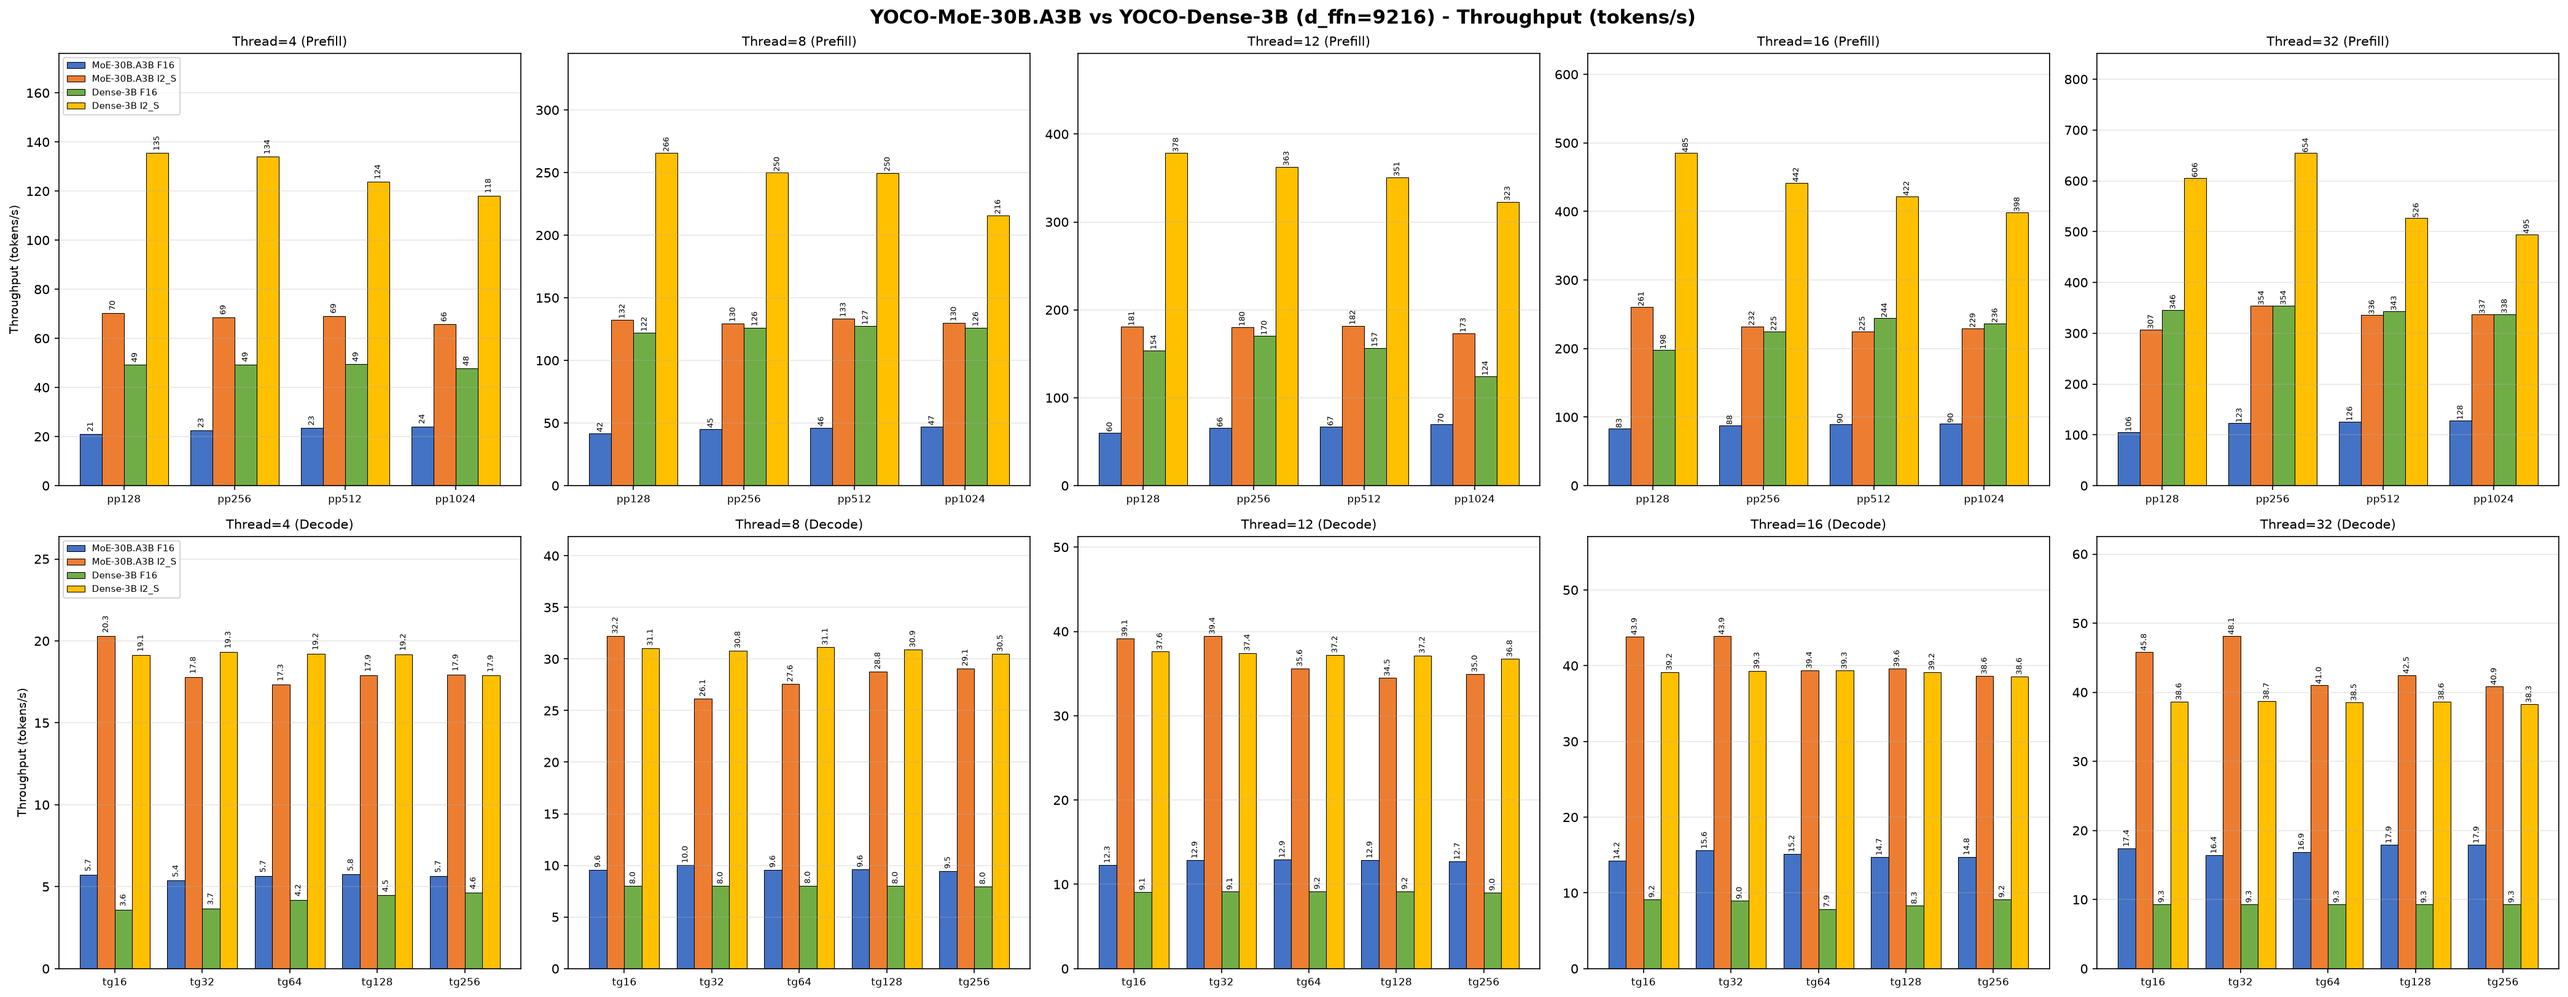
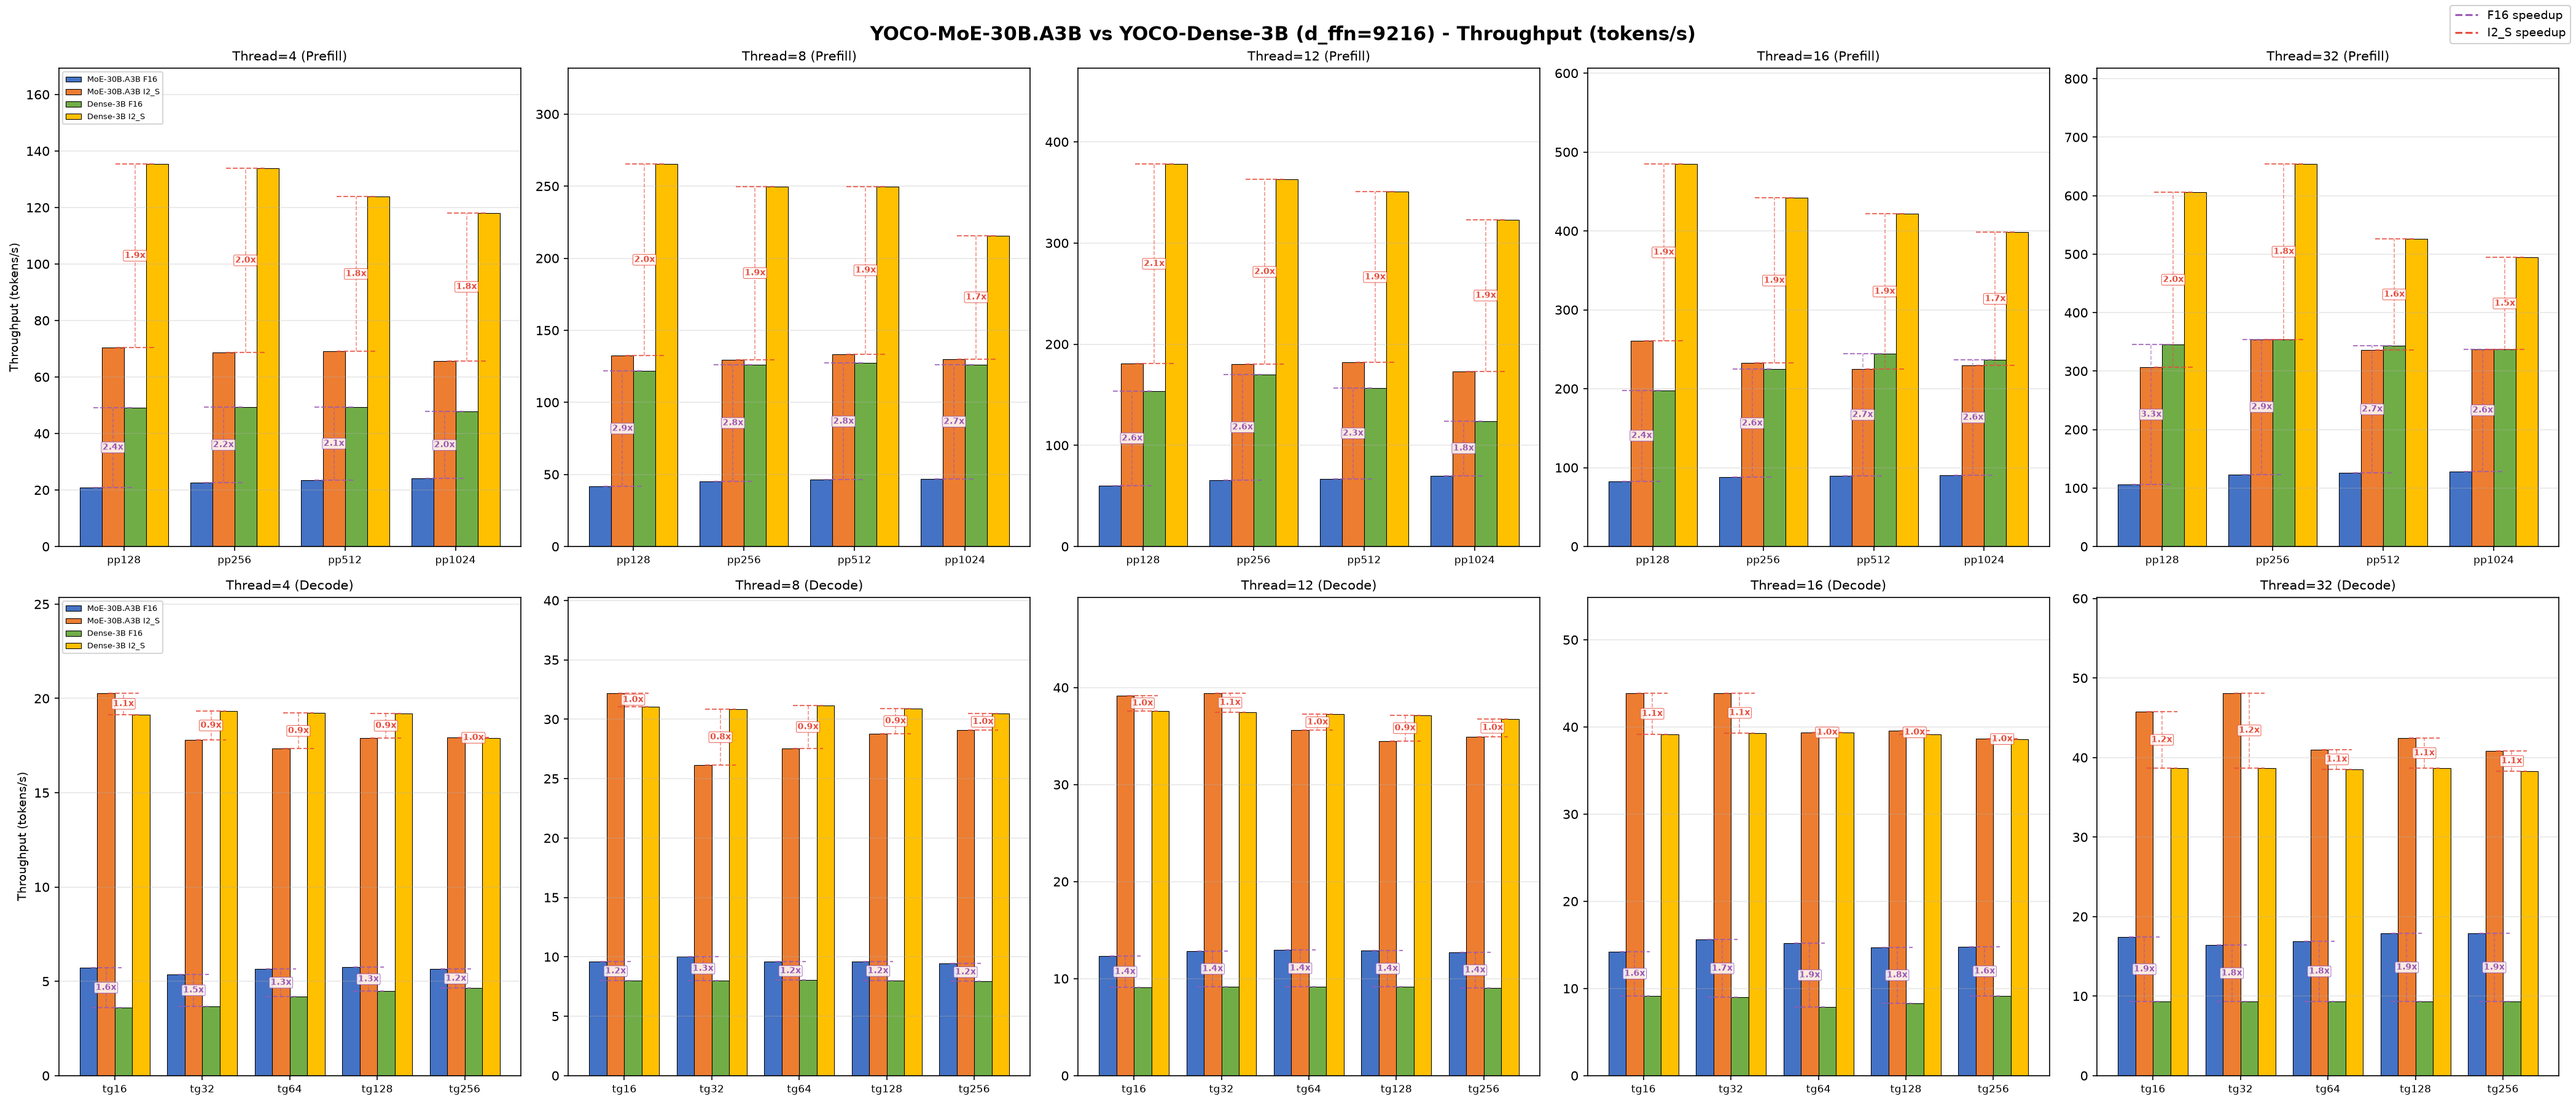
feat: add speedup brackets between paired bars in MoE vs Dense charts
Show speedup ratio between corresponding F16 and I2_S pairs using
dashed bracket lines (purple for F16, red for I2_S) connecting the
base and target bars with the ratio displayed in between.

diff --git a/images/plot_throughput_bar_moe_vs_dense.py b/images/plot_throughput_bar_moe_vs_dense.py
@@ -106,13 +106,34 @@ pp_tasks = ['pp128', 'pp256', 'pp512', 'pp1024']
 tg_tasks = ['tg16', 'tg32', 'tg64', 'tg128', 'tg256']
 
 
+def draw_speedup_bracket(ax, x_pos, y_base, y_top, speedup_text, color, width=0.18):
+    """
+    Draw a bracket between two bars (base and top) with speedup text in between.
+    Two horizontal dashed lines at y_base and y_top, with text in the middle.
+    """
+    # Horizontal dashed lines at base and top
+    ax.plot([x_pos - width/2, x_pos + width/2], [y_base, y_base],
+            linestyle='--', color=color, linewidth=1.0, alpha=0.8)
+    ax.plot([x_pos - width/2, x_pos + width/2], [y_top, y_top],
+            linestyle='--', color=color, linewidth=1.0, alpha=0.8)
+    # Vertical connector
+    ax.plot([x_pos, x_pos], [y_base, y_top],
+            linestyle='--', color=color, linewidth=0.8, alpha=0.6)
+    # Speedup text in the middle
+    y_mid = (y_base + y_top) / 2
+    ax.text(x_pos, y_mid, speedup_text, ha='center', va='center',
+            fontsize=6.5, color=color, fontweight='bold',
+            bbox=dict(boxstyle='round,pad=0.15', facecolor='white', edgecolor=color, alpha=0.85, linewidth=0.5))
+
+
 def plot_moe_vs_dense(moe_f16, moe_i2s, dense_f16, dense_i2s,
                       moe_name, dense_name, title, save_path):
     """
-    Compare MoE vs Dense: 4 bars per task (MoE-F16, MoE-I2S, Dense-F16, Dense-I2S).
-    Each subplot = one thread count. Row 0 = Prefill, Row 1 = Decode.
+    Compare MoE vs Dense with speedup brackets between paired bars.
+    Prefill: Dense/MoE speedup (bracket between MoE bar and Dense bar)
+    Decode: MoE/Dense speedup (bracket between Dense bar and MoE bar)
     """
-    fig, axes = plt.subplots(2, 5, figsize=(28, 11))
+    fig, axes = plt.subplots(2, 5, figsize=(28, 12))
     fig.suptitle(title, fontsize=15, fontweight='bold')
 
     colors = {
@@ -121,9 +142,12 @@ def plot_moe_vs_dense(moe_f16, moe_i2s, dense_f16, dense_i2s,
         'dense_f16': '#70AD47',
         'dense_i2s': '#FFC000',
     }
+    # Speedup bracket colors
+    speedup_f16_color = '#9B59B6'   # purple for F16 pair speedup
+    speedup_i2s_color = '#E74C3C'   # red for I2_S pair speedup
 
     for t_idx, t in enumerate(threads):
-        # Row 0: Prefill
+        # ===== Row 0: Prefill =====
         ax_pp = axes[0, t_idx]
         moe_f16_vals = [moe_f16[task][t_idx] for task in pp_tasks]
         moe_i2s_vals = [moe_i2s[task][t_idx] for task in pp_tasks]
@@ -132,32 +156,42 @@ def plot_moe_vs_dense(moe_f16, moe_i2s, dense_f16, dense_i2s,
 
         x = np.arange(len(pp_tasks))
         width = 0.2
-        bars1 = ax_pp.bar(x - 1.5*width, moe_f16_vals, width, label=f'{moe_name} F16',
-                          color=colors['moe_f16'], edgecolor='black', linewidth=0.5)
-        bars2 = ax_pp.bar(x - 0.5*width, moe_i2s_vals, width, label=f'{moe_name} I2_S',
-                          color=colors['moe_i2s'], edgecolor='black', linewidth=0.5)
-        bars3 = ax_pp.bar(x + 0.5*width, dense_f16_vals, width, label=f'{dense_name} F16',
-                          color=colors['dense_f16'], edgecolor='black', linewidth=0.5)
-        bars4 = ax_pp.bar(x + 1.5*width, dense_i2s_vals, width, label=f'{dense_name} I2_S',
-                          color=colors['dense_i2s'], edgecolor='black', linewidth=0.5)
+        ax_pp.bar(x - 1.5*width, moe_f16_vals, width, label=f'{moe_name} F16',
+                  color=colors['moe_f16'], edgecolor='black', linewidth=0.5)
+        ax_pp.bar(x - 0.5*width, moe_i2s_vals, width, label=f'{moe_name} I2_S',
+                  color=colors['moe_i2s'], edgecolor='black', linewidth=0.5)
+        ax_pp.bar(x + 0.5*width, dense_f16_vals, width, label=f'{dense_name} F16',
+                  color=colors['dense_f16'], edgecolor='black', linewidth=0.5)
+        ax_pp.bar(x + 1.5*width, dense_i2s_vals, width, label=f'{dense_name} I2_S',
+                  color=colors['dense_i2s'], edgecolor='black', linewidth=0.5)
 
-        for bars in [bars1, bars2, bars3, bars4]:
-            for bar in bars:
-                h = bar.get_height()
-                ax_pp.text(bar.get_x() + bar.get_width()/2, h + 1, f'{h:.0f}',
-                           ha='center', va='bottom', fontsize=6, rotation=90)
+        # Draw speedup brackets for Prefill (Dense/MoE)
+        for i in range(len(pp_tasks)):
+            # F16 pair: blue (MoE) -> green (Dense)
+            speedup_f16 = dense_f16_vals[i] / moe_f16_vals[i]
+            mid_x_f16 = (x[i] - 1.5*width + x[i] + 0.5*width) / 2  # between blue and green
+            draw_speedup_bracket(ax_pp, mid_x_f16,
+                                 moe_f16_vals[i], dense_f16_vals[i],
+                                 f'{speedup_f16:.1f}x', speedup_f16_color, width=0.35)
+
+            # I2_S pair: orange (MoE) -> yellow (Dense)
+            speedup_i2s = dense_i2s_vals[i] / moe_i2s_vals[i]
+            mid_x_i2s = (x[i] - 0.5*width + x[i] + 1.5*width) / 2  # between orange and yellow
+            draw_speedup_bracket(ax_pp, mid_x_i2s,
+                                 moe_i2s_vals[i], dense_i2s_vals[i],
+                                 f'{speedup_i2s:.1f}x', speedup_i2s_color, width=0.35)
 
         ax_pp.set_title(f'Thread={t} (Prefill)', fontsize=10)
         ax_pp.set_xticks(x)
         ax_pp.set_xticklabels(pp_tasks, fontsize=8)
         ax_pp.grid(True, alpha=0.3, axis='y')
         all_vals = moe_f16_vals + moe_i2s_vals + dense_f16_vals + dense_i2s_vals
-        ax_pp.set_ylim(0, max(all_vals) * 1.3)
+        ax_pp.set_ylim(0, max(all_vals) * 1.25)
         if t_idx == 0:
             ax_pp.set_ylabel('Throughput (tokens/s)', fontsize=9)
-            ax_pp.legend(fontsize=7, loc='upper left')
+            ax_pp.legend(fontsize=6, loc='upper left')
 
-        # Row 1: Decode
+        # ===== Row 1: Decode =====
         ax_tg = axes[1, t_idx]
         moe_f16_vals = [moe_f16[task][t_idx] for task in tg_tasks]
         moe_i2s_vals = [moe_i2s[task][t_idx] for task in tg_tasks]
@@ -165,30 +199,48 @@ def plot_moe_vs_dense(moe_f16, moe_i2s, dense_f16, dense_i2s,
         dense_i2s_vals = [dense_i2s[task][t_idx] for task in tg_tasks]
 
         x = np.arange(len(tg_tasks))
-        bars1 = ax_tg.bar(x - 1.5*width, moe_f16_vals, width, label=f'{moe_name} F16',
-                          color=colors['moe_f16'], edgecolor='black', linewidth=0.5)
-        bars2 = ax_tg.bar(x - 0.5*width, moe_i2s_vals, width, label=f'{moe_name} I2_S',
-                          color=colors['moe_i2s'], edgecolor='black', linewidth=0.5)
-        bars3 = ax_tg.bar(x + 0.5*width, dense_f16_vals, width, label=f'{dense_name} F16',
-                          color=colors['dense_f16'], edgecolor='black', linewidth=0.5)
-        bars4 = ax_tg.bar(x + 1.5*width, dense_i2s_vals, width, label=f'{dense_name} I2_S',
-                          color=colors['dense_i2s'], edgecolor='black', linewidth=0.5)
+        ax_tg.bar(x - 1.5*width, moe_f16_vals, width, label=f'{moe_name} F16',
+                  color=colors['moe_f16'], edgecolor='black', linewidth=0.5)
+        ax_tg.bar(x - 0.5*width, moe_i2s_vals, width, label=f'{moe_name} I2_S',
+                  color=colors['moe_i2s'], edgecolor='black', linewidth=0.5)
+        ax_tg.bar(x + 0.5*width, dense_f16_vals, width, label=f'{dense_name} F16',
+                  color=colors['dense_f16'], edgecolor='black', linewidth=0.5)
+        ax_tg.bar(x + 1.5*width, dense_i2s_vals, width, label=f'{dense_name} I2_S',
+                  color=colors['dense_i2s'], edgecolor='black', linewidth=0.5)
 
-        for bars in [bars1, bars2, bars3, bars4]:
-            for bar in bars:
-                h = bar.get_height()
-                ax_tg.text(bar.get_x() + bar.get_width()/2, h + 0.2, f'{h:.1f}',
-                           ha='center', va='bottom', fontsize=6, rotation=90)
+        # Draw speedup brackets for Decode (MoE/Dense)
+        for i in range(len(tg_tasks)):
+            # F16 pair: green (Dense) -> blue (MoE), MoE is faster
+            speedup_f16 = moe_f16_vals[i] / dense_f16_vals[i]
+            mid_x_f16 = (x[i] - 1.5*width + x[i] + 0.5*width) / 2
+            draw_speedup_bracket(ax_tg, mid_x_f16,
+                                 dense_f16_vals[i], moe_f16_vals[i],
+                                 f'{speedup_f16:.1f}x', speedup_f16_color, width=0.35)
+
+            # I2_S pair: yellow (Dense) -> orange (MoE), MoE is faster
+            speedup_i2s = moe_i2s_vals[i] / dense_i2s_vals[i]
+            mid_x_i2s = (x[i] - 0.5*width + x[i] + 1.5*width) / 2
+            draw_speedup_bracket(ax_tg, mid_x_i2s,
+                                 dense_i2s_vals[i], moe_i2s_vals[i],
+                                 f'{speedup_i2s:.1f}x', speedup_i2s_color, width=0.35)
 
         ax_tg.set_title(f'Thread={t} (Decode)', fontsize=10)
         ax_tg.set_xticks(x)
         ax_tg.set_xticklabels(tg_tasks, fontsize=8)
         ax_tg.grid(True, alpha=0.3, axis='y')
         all_vals = moe_f16_vals + moe_i2s_vals + dense_f16_vals + dense_i2s_vals
-        ax_tg.set_ylim(0, max(all_vals) * 1.3)
+        ax_tg.set_ylim(0, max(all_vals) * 1.25)
         if t_idx == 0:
             ax_tg.set_ylabel('Throughput (tokens/s)', fontsize=9)
-            ax_tg.legend(fontsize=7, loc='upper left')
+            ax_tg.legend(fontsize=6, loc='upper left')
+
+    # Add legend for speedup colors
+    from matplotlib.lines import Line2D
+    legend_elements = [
+        Line2D([0], [0], linestyle='--', color=speedup_f16_color, linewidth=1.5, label='F16 speedup'),
+        Line2D([0], [0], linestyle='--', color=speedup_i2s_color, linewidth=1.5, label='I2_S speedup'),
+    ]
+    fig.legend(handles=legend_elements, loc='upper right', fontsize=9, framealpha=0.9)
 
     plt.tight_layout()
     plt.savefig(save_path, dpi=150, bbox_inches='tight')
